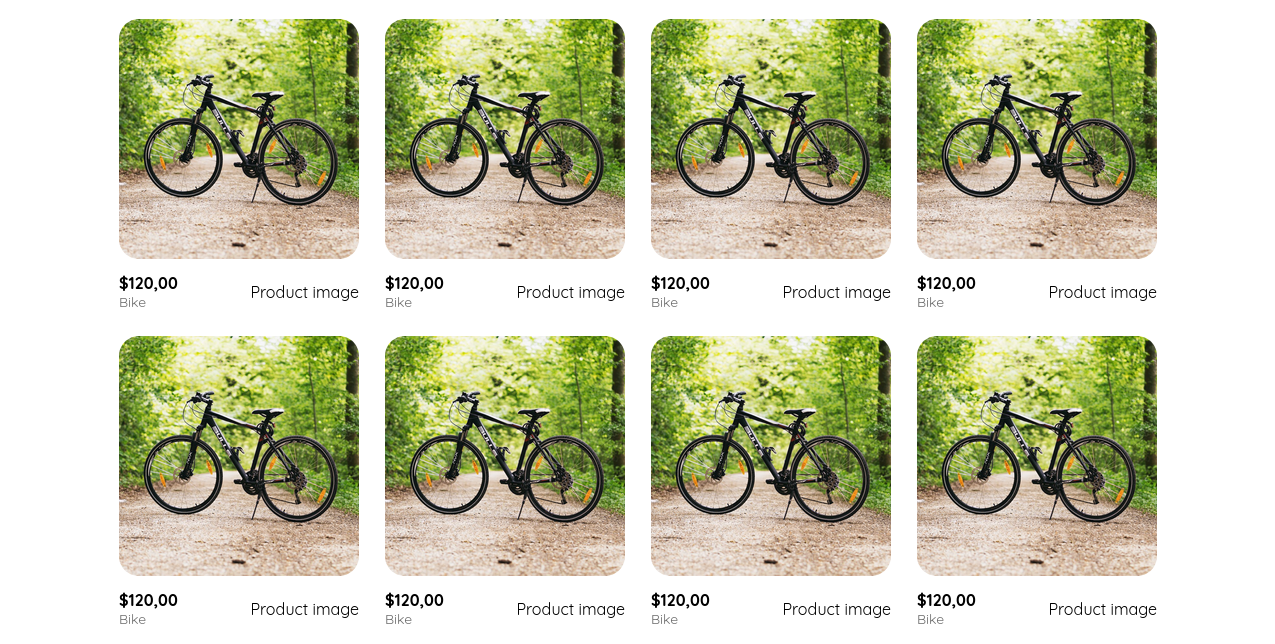
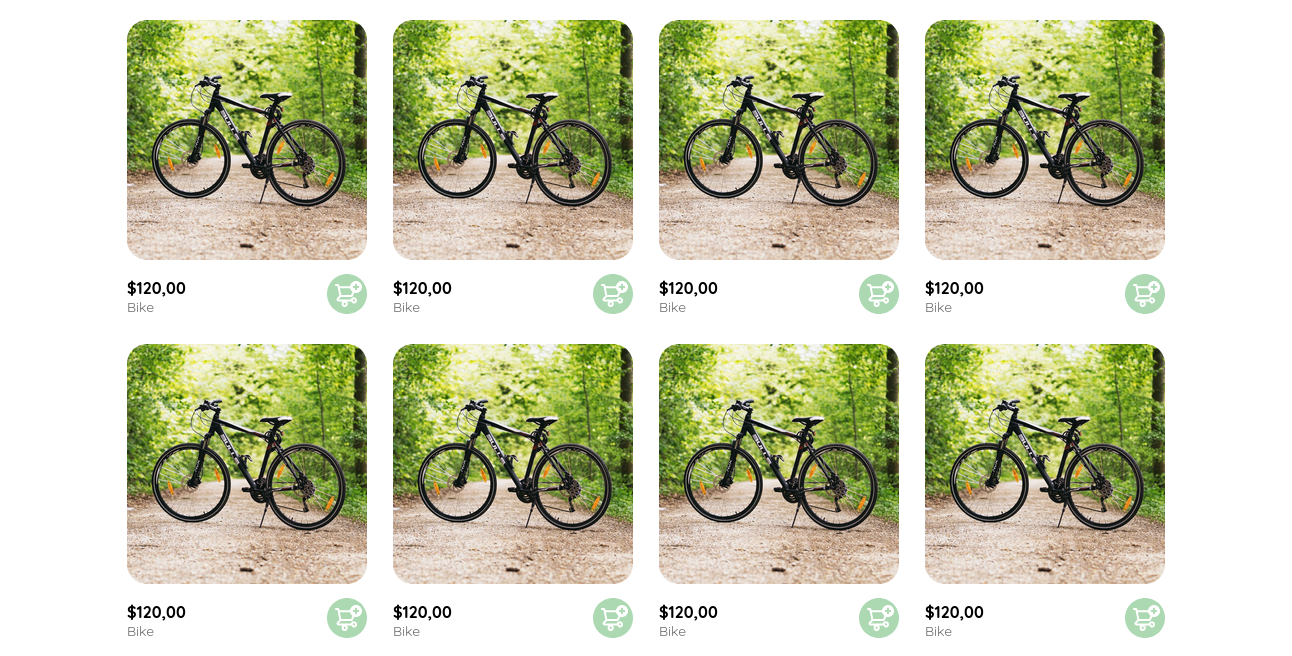
Fixed a problem with images in the home section

diff --git a/clase6.html b/clase6.html
@@ -86,7 +86,7 @@
       <div class="cards-container">
         <div class="product-card">
           <img
-            src="https:/images.pexels.com/photos/100582/pexels-photo-100582.jpeg?auto=compress&cs=tinysrgb&w=1260&h=750&dpr=1"
+            src="https://images.pexels.com/photos/100582/pexels-photo-100582.jpeg?auto=compress&cs=tinysrgb&w=1260&h=750&dpr=1"
             alt=""
             class="product-img"
           />
@@ -104,7 +104,7 @@
 
         <div class="product-card">
           <img
-            src="https:/images.pexels.com/photos/100582/pexels-photo-100582.jpeg?auto=compress&cs=tinysrgb&w=1260&h=750&dpr=1"
+            src="https://images.pexels.com/photos/100582/pexels-photo-100582.jpeg?auto=compress&cs=tinysrgb&w=1260&h=750&dpr=1"
             alt=""
             class="product-img"
           />
@@ -122,7 +122,7 @@
 
         <div class="product-card">
           <img
-            src="https:/images.pexels.com/photos/100582/pexels-photo-100582.jpeg?auto=compress&cs=tinysrgb&w=1260&h=750&dpr=1"
+            src="https://images.pexels.com/photos/100582/pexels-photo-100582.jpeg?auto=compress&cs=tinysrgb&w=1260&h=750&dpr=1"
             alt=""
             class="product-img"
           />
@@ -140,7 +140,7 @@
 
         <div class="product-card">
           <img
-            src="https:/images.pexels.com/photos/100582/pexels-photo-100582.jpeg?auto=compress&cs=tinysrgb&w=1260&h=750&dpr=1"
+            src="https://images.pexels.com/photos/100582/pexels-photo-100582.jpeg?auto=compress&cs=tinysrgb&w=1260&h=750&dpr=1"
             alt=""
             class="product-img"
           />
@@ -158,7 +158,7 @@
 
         <div class="product-card">
           <img
-            src="https:/images.pexels.com/photos/100582/pexels-photo-100582.jpeg?auto=compress&cs=tinysrgb&w=1260&h=750&dpr=1"
+            src="https://images.pexels.com/photos/100582/pexels-photo-100582.jpeg?auto=compress&cs=tinysrgb&w=1260&h=750&dpr=1"
             alt=""
             class="product-img"
           />
@@ -176,7 +176,7 @@
 
         <div class="product-card">
           <img
-            src="https:/images.pexels.com/photos/100582/pexels-photo-100582.jpeg?auto=compress&cs=tinysrgb&w=1260&h=750&dpr=1"
+            src="https://images.pexels.com/photos/100582/pexels-photo-100582.jpeg?auto=compress&cs=tinysrgb&w=1260&h=750&dpr=1"
             alt=""
             class="product-img"
           />
@@ -194,7 +194,7 @@
 
         <div class="product-card">
           <img
-            src="https:/images.pexels.com/photos/100582/pexels-photo-100582.jpeg?auto=compress&cs=tinysrgb&w=1260&h=750&dpr=1"
+            src="https://images.pexels.com/photos/100582/pexels-photo-100582.jpeg?auto=compress&cs=tinysrgb&w=1260&h=750&dpr=1"
             alt=""
             class="product-img"
           />
@@ -212,7 +212,7 @@
 
         <div class="product-card">
           <img
-            src="https:/images.pexels.com/photos/100582/pexels-photo-100582.jpeg?auto=compress&cs=tinysrgb&w=1260&h=750&dpr=1"
+            src="https://images.pexels.com/photos/100582/pexels-photo-100582.jpeg?auto=compress&cs=tinysrgb&w=1260&h=750&dpr=1"
             alt=""
             class="product-img"
           />
@@ -230,7 +230,7 @@
 
         <div class="product-card">
           <img
-            src="https:/images.pexels.com/photos/100582/pexels-photo-100582.jpeg?auto=compress&cs=tinysrgb&w=1260&h=750&dpr=1"
+            src="https://images.pexels.com/photos/100582/pexels-photo-100582.jpeg?auto=compress&cs=tinysrgb&w=1260&h=750&dpr=1"
             alt=""
             class="product-img"
           />
@@ -248,7 +248,7 @@
 
         <div class="product-card">
           <img
-            src="https:/images.pexels.com/photos/100582/pexels-photo-100582.jpeg?auto=compress&cs=tinysrgb&w=1260&h=750&dpr=1"
+            src="https://images.pexels.com/photos/100582/pexels-photo-100582.jpeg?auto=compress&cs=tinysrgb&w=1260&h=750&dpr=1"
             alt=""
             class="product-img"
           />
@@ -266,7 +266,7 @@
 
         <div class="product-card">
           <img
-            src="https:/images.pexels.com/photos/100582/pexels-photo-100582.jpeg?auto=compress&cs=tinysrgb&w=1260&h=750&dpr=1"
+            src="https://images.pexels.com/photos/100582/pexels-photo-100582.jpeg?auto=compress&cs=tinysrgb&w=1260&h=750&dpr=1"
             alt=""
             class="product-img"
           />
@@ -284,7 +284,7 @@
 
         <div class="product-card">
           <img
-            src="https:/images.pexels.com/photos/100582/pexels-photo-100582.jpeg?auto=compress&cs=tinysrgb&w=1260&h=750&dpr=1"
+            src="https://images.pexels.com/photos/100582/pexels-photo-100582.jpeg?auto=compress&cs=tinysrgb&w=1260&h=750&dpr=1"
             alt=""
             class="product-img"
           />
@@ -302,7 +302,7 @@
 
         <div class="product-card">
           <img
-            src="https:/images.pexels.com/photos/100582/pexels-photo-100582.jpeg?auto=compress&cs=tinysrgb&w=1260&h=750&dpr=1"
+            src="https://images.pexels.com/photos/100582/pexels-photo-100582.jpeg?auto=compress&cs=tinysrgb&w=1260&h=750&dpr=1"
             alt=""
             class="product-img"
           />
@@ -320,7 +320,7 @@
 
         <div class="product-card">
           <img
-            src="https:/images.pexels.com/photos/100582/pexels-photo-100582.jpeg?auto=compress&cs=tinysrgb&w=1260&h=750&dpr=1"
+            src="https://images.pexels.com/photos/100582/pexels-photo-100582.jpeg?auto=compress&cs=tinysrgb&w=1260&h=750&dpr=1"
             alt=""
             class="product-img"
           />
@@ -338,7 +338,7 @@
 
         <div class="product-card">
           <img
-            src="https:/images.pexels.com/photos/100582/pexels-photo-100582.jpeg?auto=compress&cs=tinysrgb&w=1260&h=750&dpr=1"
+            src="https://images.pexels.com/photos/100582/pexels-photo-100582.jpeg?auto=compress&cs=tinysrgb&w=1260&h=750&dpr=1"
             alt=""
             class="product-img"
           />
@@ -356,7 +356,7 @@
 
         <div class="product-card">
           <img
-            src="https:/images.pexels.com/photos/100582/pexels-photo-100582.jpeg?auto=compress&cs=tinysrgb&w=1260&h=750&dpr=1"
+            src="https://images.pexels.com/photos/100582/pexels-photo-100582.jpeg?auto=compress&cs=tinysrgb&w=1260&h=750&dpr=1"
             alt=""
             class="product-img"
           />
@@ -374,7 +374,7 @@
 
         <div class="product-card">
           <img
-            src="https:/images.pexels.com/photos/100582/pexels-photo-100582.jpeg?auto=compress&cs=tinysrgb&w=1260&h=750&dpr=1"
+            src="https://images.pexels.com/photos/100582/pexels-photo-100582.jpeg?auto=compress&cs=tinysrgb&w=1260&h=750&dpr=1"
             alt=""
             class="product-img"
           />
@@ -392,7 +392,7 @@
 
         <div class="product-card">
           <img
-            src="https:/images.pexels.com/photos/100582/pexels-photo-100582.jpeg?auto=compress&cs=tinysrgb&w=1260&h=750&dpr=1"
+            src="https://images.pexels.com/photos/100582/pexels-photo-100582.jpeg?auto=compress&cs=tinysrgb&w=1260&h=750&dpr=1"
             alt=""
             class="product-img"
           />
